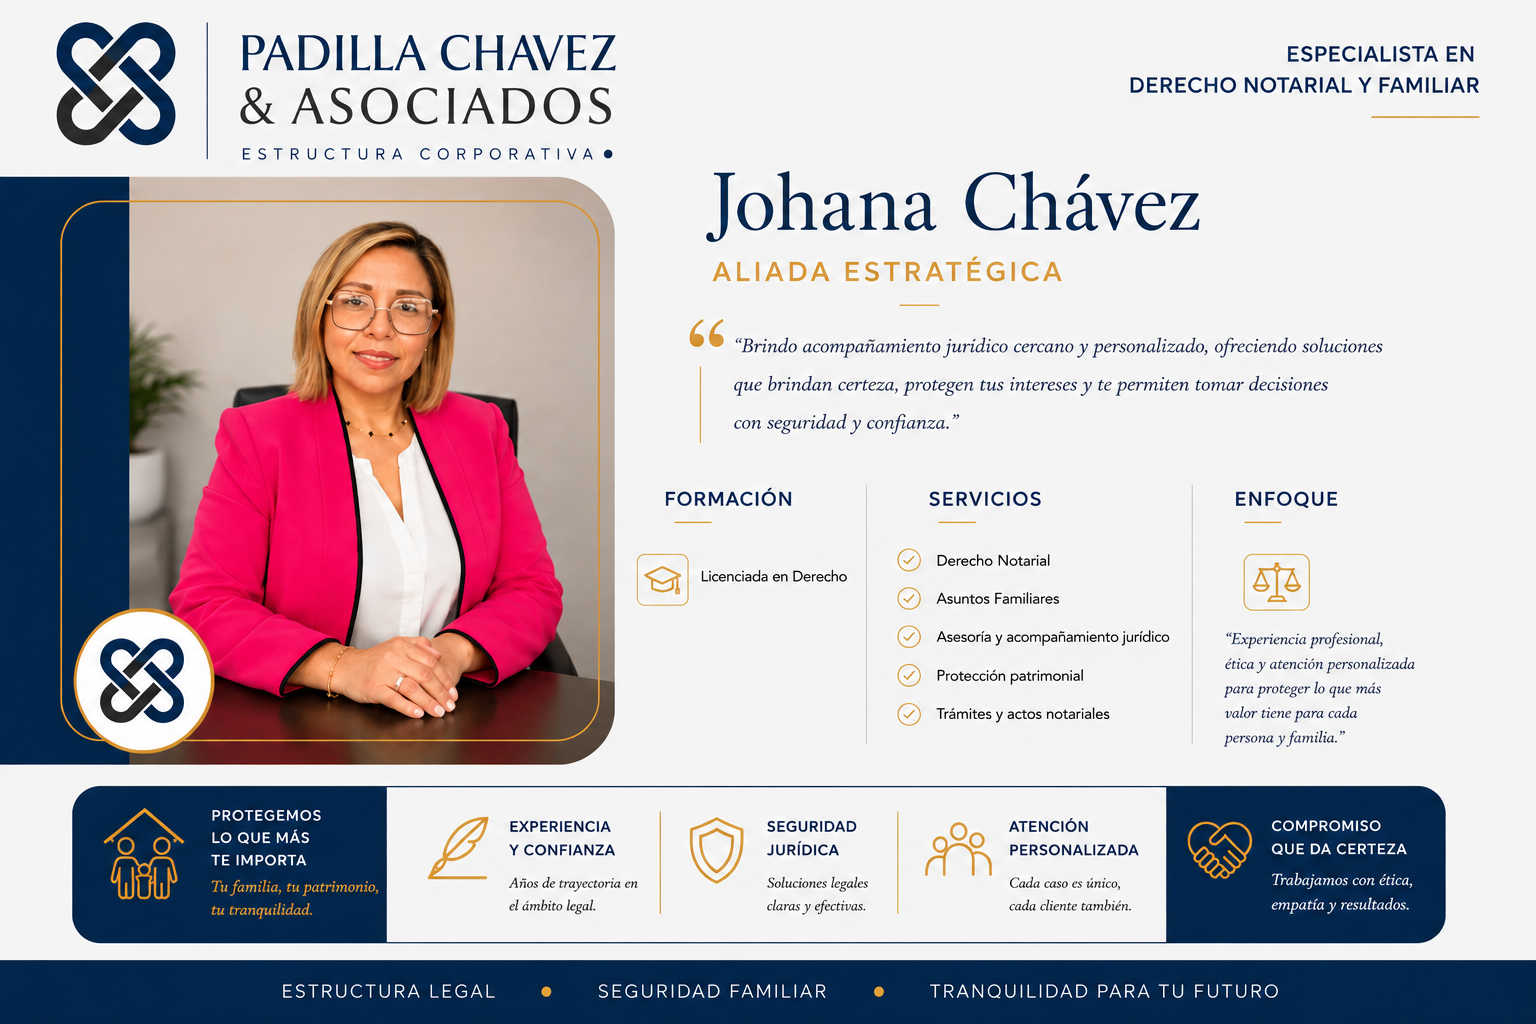
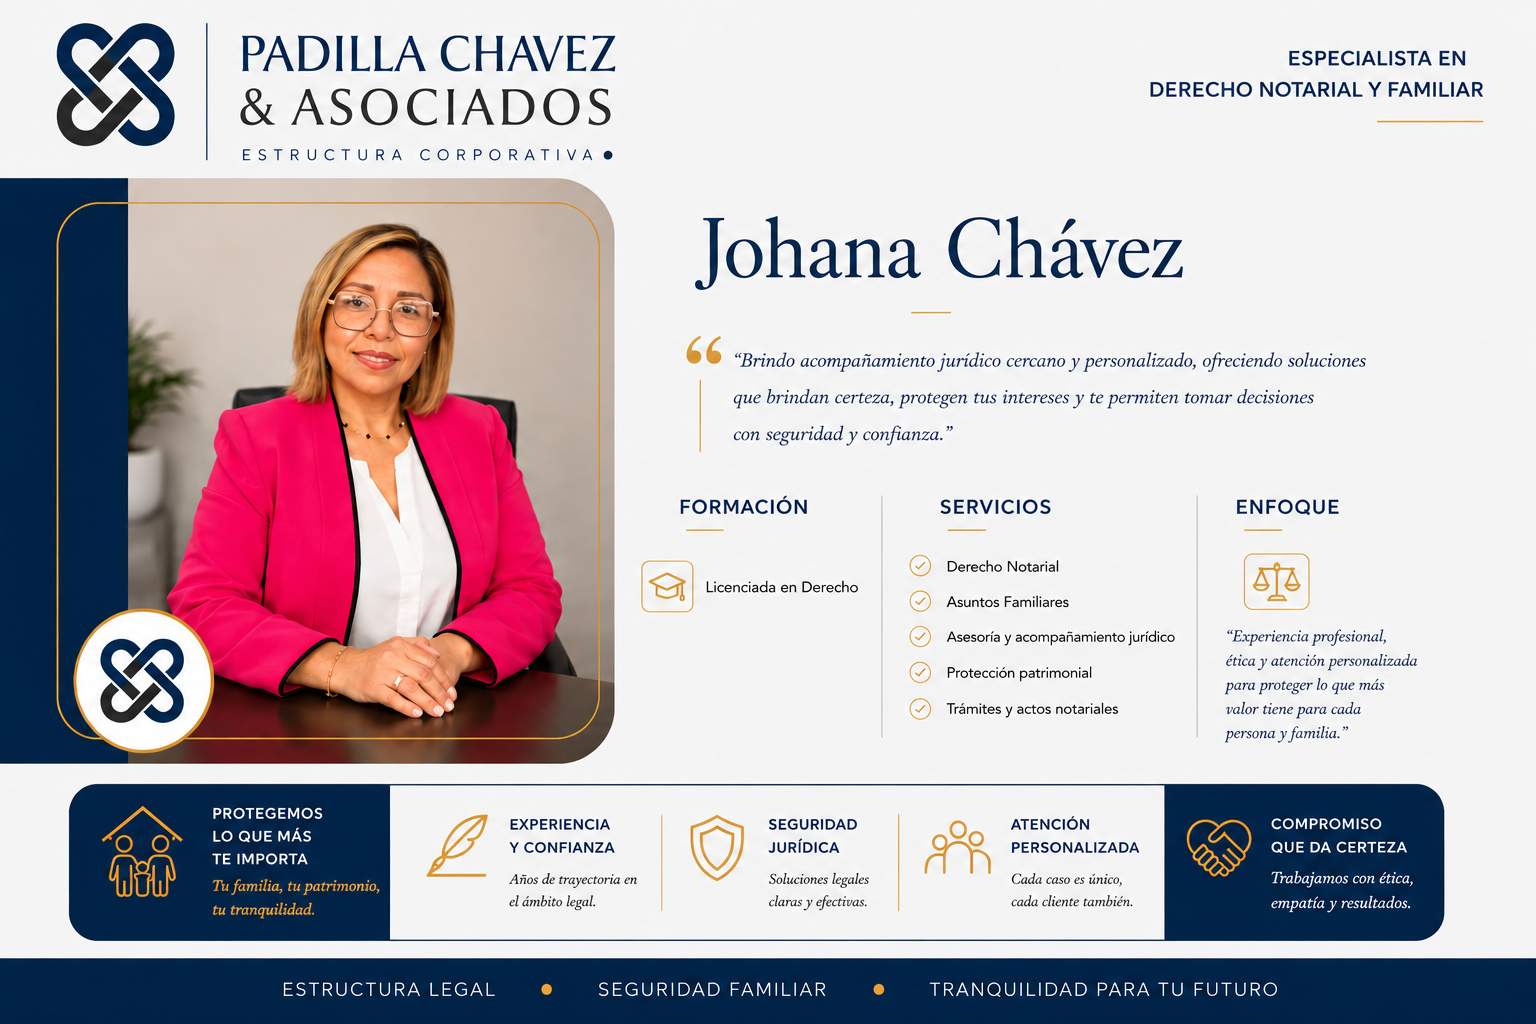
Move Johana and Julio to Equipo Especializado, keep only Laura and Jorge in Aliados

diff --git a/app/components/TeamComponent.tsx b/app/components/TeamComponent.tsx
@@ -1,20 +1,45 @@
 'use client';
 
-export default function TeamComponent() {
-  return (
-    <section id="equipo" className="relative bg-[#0D2B4D] px-6 py-20 overflow-hidden">
-      <div className="max-w-[1000px] mx-auto relative z-10">
-        <div className="text-center mb-12" data-reveal>
-          <p className="text-[#6D8FB1] text-sm font-semibold tracking-widest uppercase mb-4">Nuestro Equipo</p>
-          <h2 className="text-4xl md:text-5xl font-serif text-white">Equipo Especializado</h2>
-        </div>
+import { useInView } from './useInView';
 
-        <div className="max-w-2xl mx-auto" data-reveal style={{ '--reveal-delay': '0.15s' } as React.CSSProperties}>
-          <img
-            src="/citlalli.png"
-            alt="Citlalli Padilla"
-            className="w-full h-auto rounded-lg"
-          />
+function TeamMember({ image, name }) {
+  const [ref, isInView] = useInView();
+
+  return (
+    <div
+      ref={ref}
+      className={`transition-all duration-600 ${isInView ? 'opacity-100 translate-y-0' : 'opacity-0 translate-y-8'}`}
+    >
+      <img 
+        src={image} 
+        alt={name} 
+        className="w-full h-auto rounded-lg"
+      />
+    </div>
+  );
+}
+
+export default function TeamComponent() {
+  const [ref, isInView] = useInView();
+
+  const team = [
+    { name: 'Citlalli', image: '/citlalli.png' },
+    { name: 'Johana', image: '/Johana.png' },
+    { name: 'Julio', image: '/Julio.png' },
+  ];
+
+  return (
+    <section id="equipo" className="relative bg-[#0b2440] px-6 py-20 overflow-hidden">
+      <div className="max-w-[1180px] mx-auto relative z-10">
+        <div ref={ref} className="text-center mb-12">
+          <p className={`text-[#7fb2db] text-sm tracking-widest uppercase mb-4 transition-all duration-600 ${isInView ? 'opacity-100 translate-y-0' : 'opacity-0 translate-y-8'}`}>Nuestro Equipo</p>
+          <h2 className={`text-4xl md:text-5xl font-serif text-white transition-all duration-600 delay-100 ${isInView ? 'opacity-100 translate-y-0' : 'opacity-0 translate-y-8'}`}>Equipo Especializado</h2>
+        </div>
+        
+        <div className="grid grid-cols-1 md:grid-cols-3 gap-8">
+          {team.map((member) => (
+            <TeamMember key={member.name} image={member.image} name={member.name} />
+          ))}
         </div>
       </div>
     </section>

diff --git a/app/components/AlliesComponent.tsx b/app/components/AlliesComponent.tsx
@@ -25,12 +25,10 @@ export default function AlliesComponent() {
   const allies = [
     { name: 'Laura', image: '/laura.png' },
     { name: 'Jorge', image: '/jorge.png' },
-    { name: 'Johana', image: '/Johana.png' },
-    { name: 'Julio', image: '/Julio.png' },
   ];
 
   return (
-    <section className="relative bg-gradient-to-b from-[#0b2440] to-[#0b2440] px-6 py-20 overflow-hidden">
+    <section id="aliados" className="relative bg-gradient-to-b from-[#0b2440] to-[#0b2440] px-6 py-20 overflow-hidden">
       <div className="max-w-[1180px] mx-auto relative z-10">
         <div ref={ref} className="text-center mb-12">
           <p className={`text-[#7fb2db] text-sm tracking-widest uppercase mb-4 transition-all duration-600 ${isInView ? 'opacity-100 translate-y-0' : 'opacity-0 translate-y-8'}`}>Nuestros Aliados</p>
